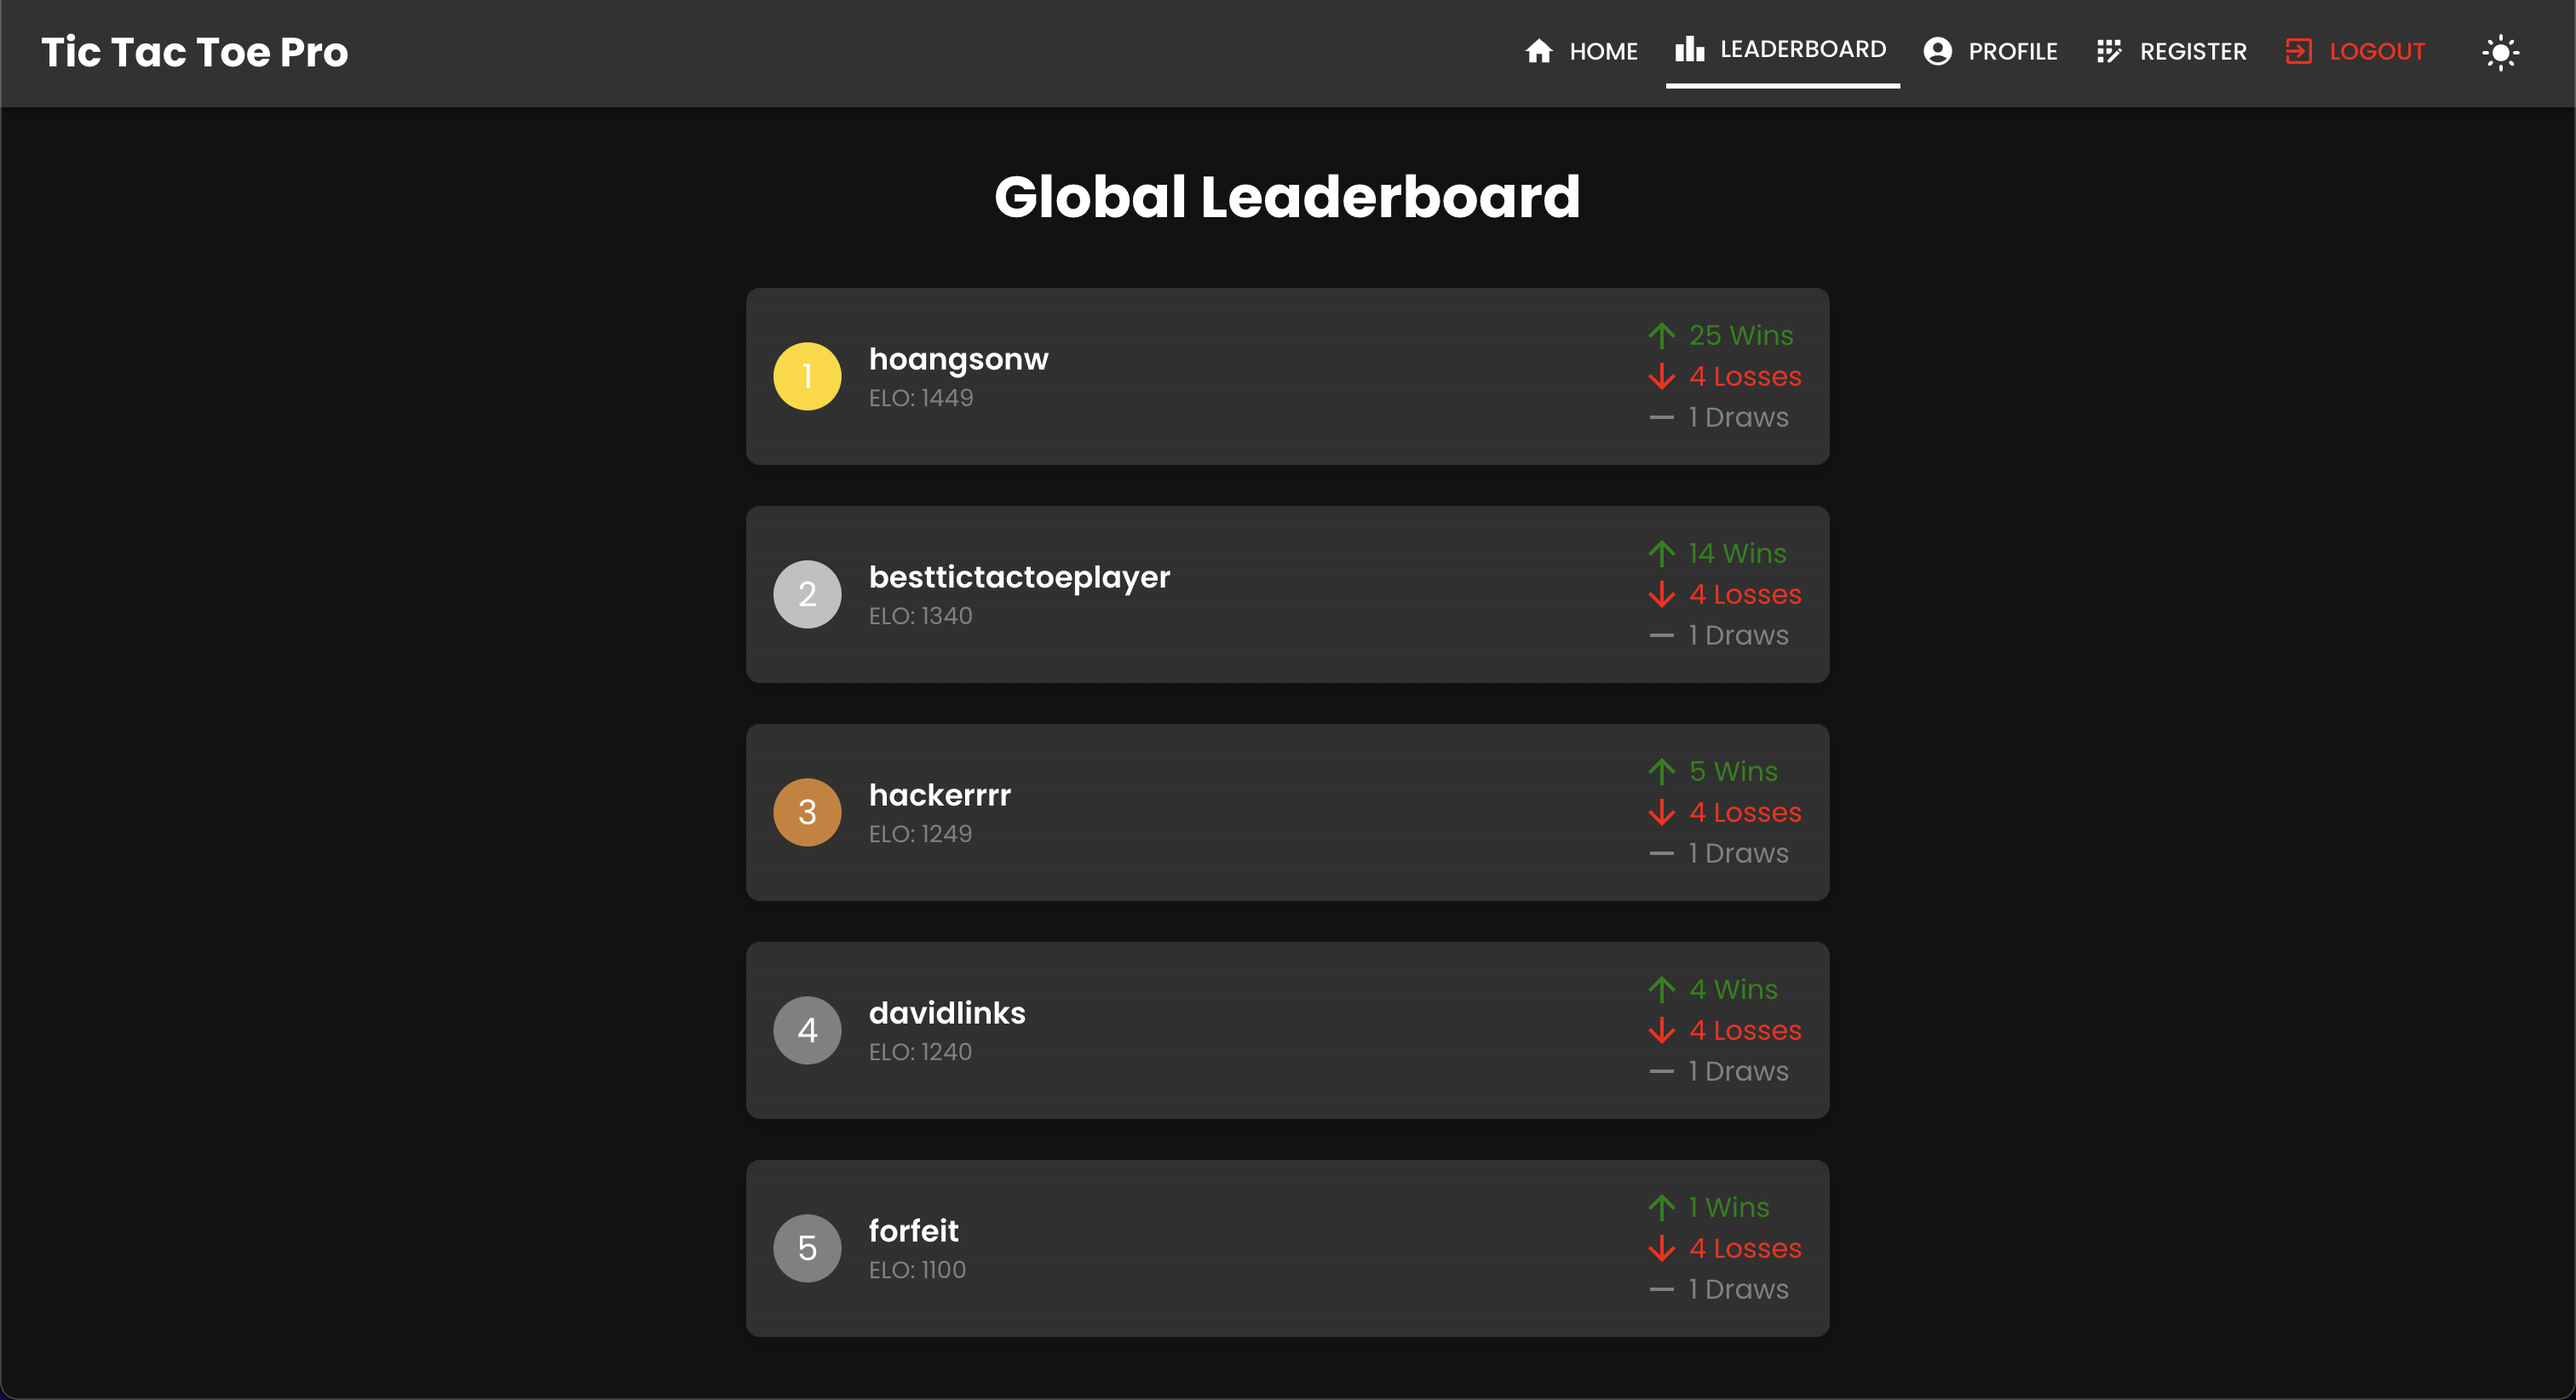
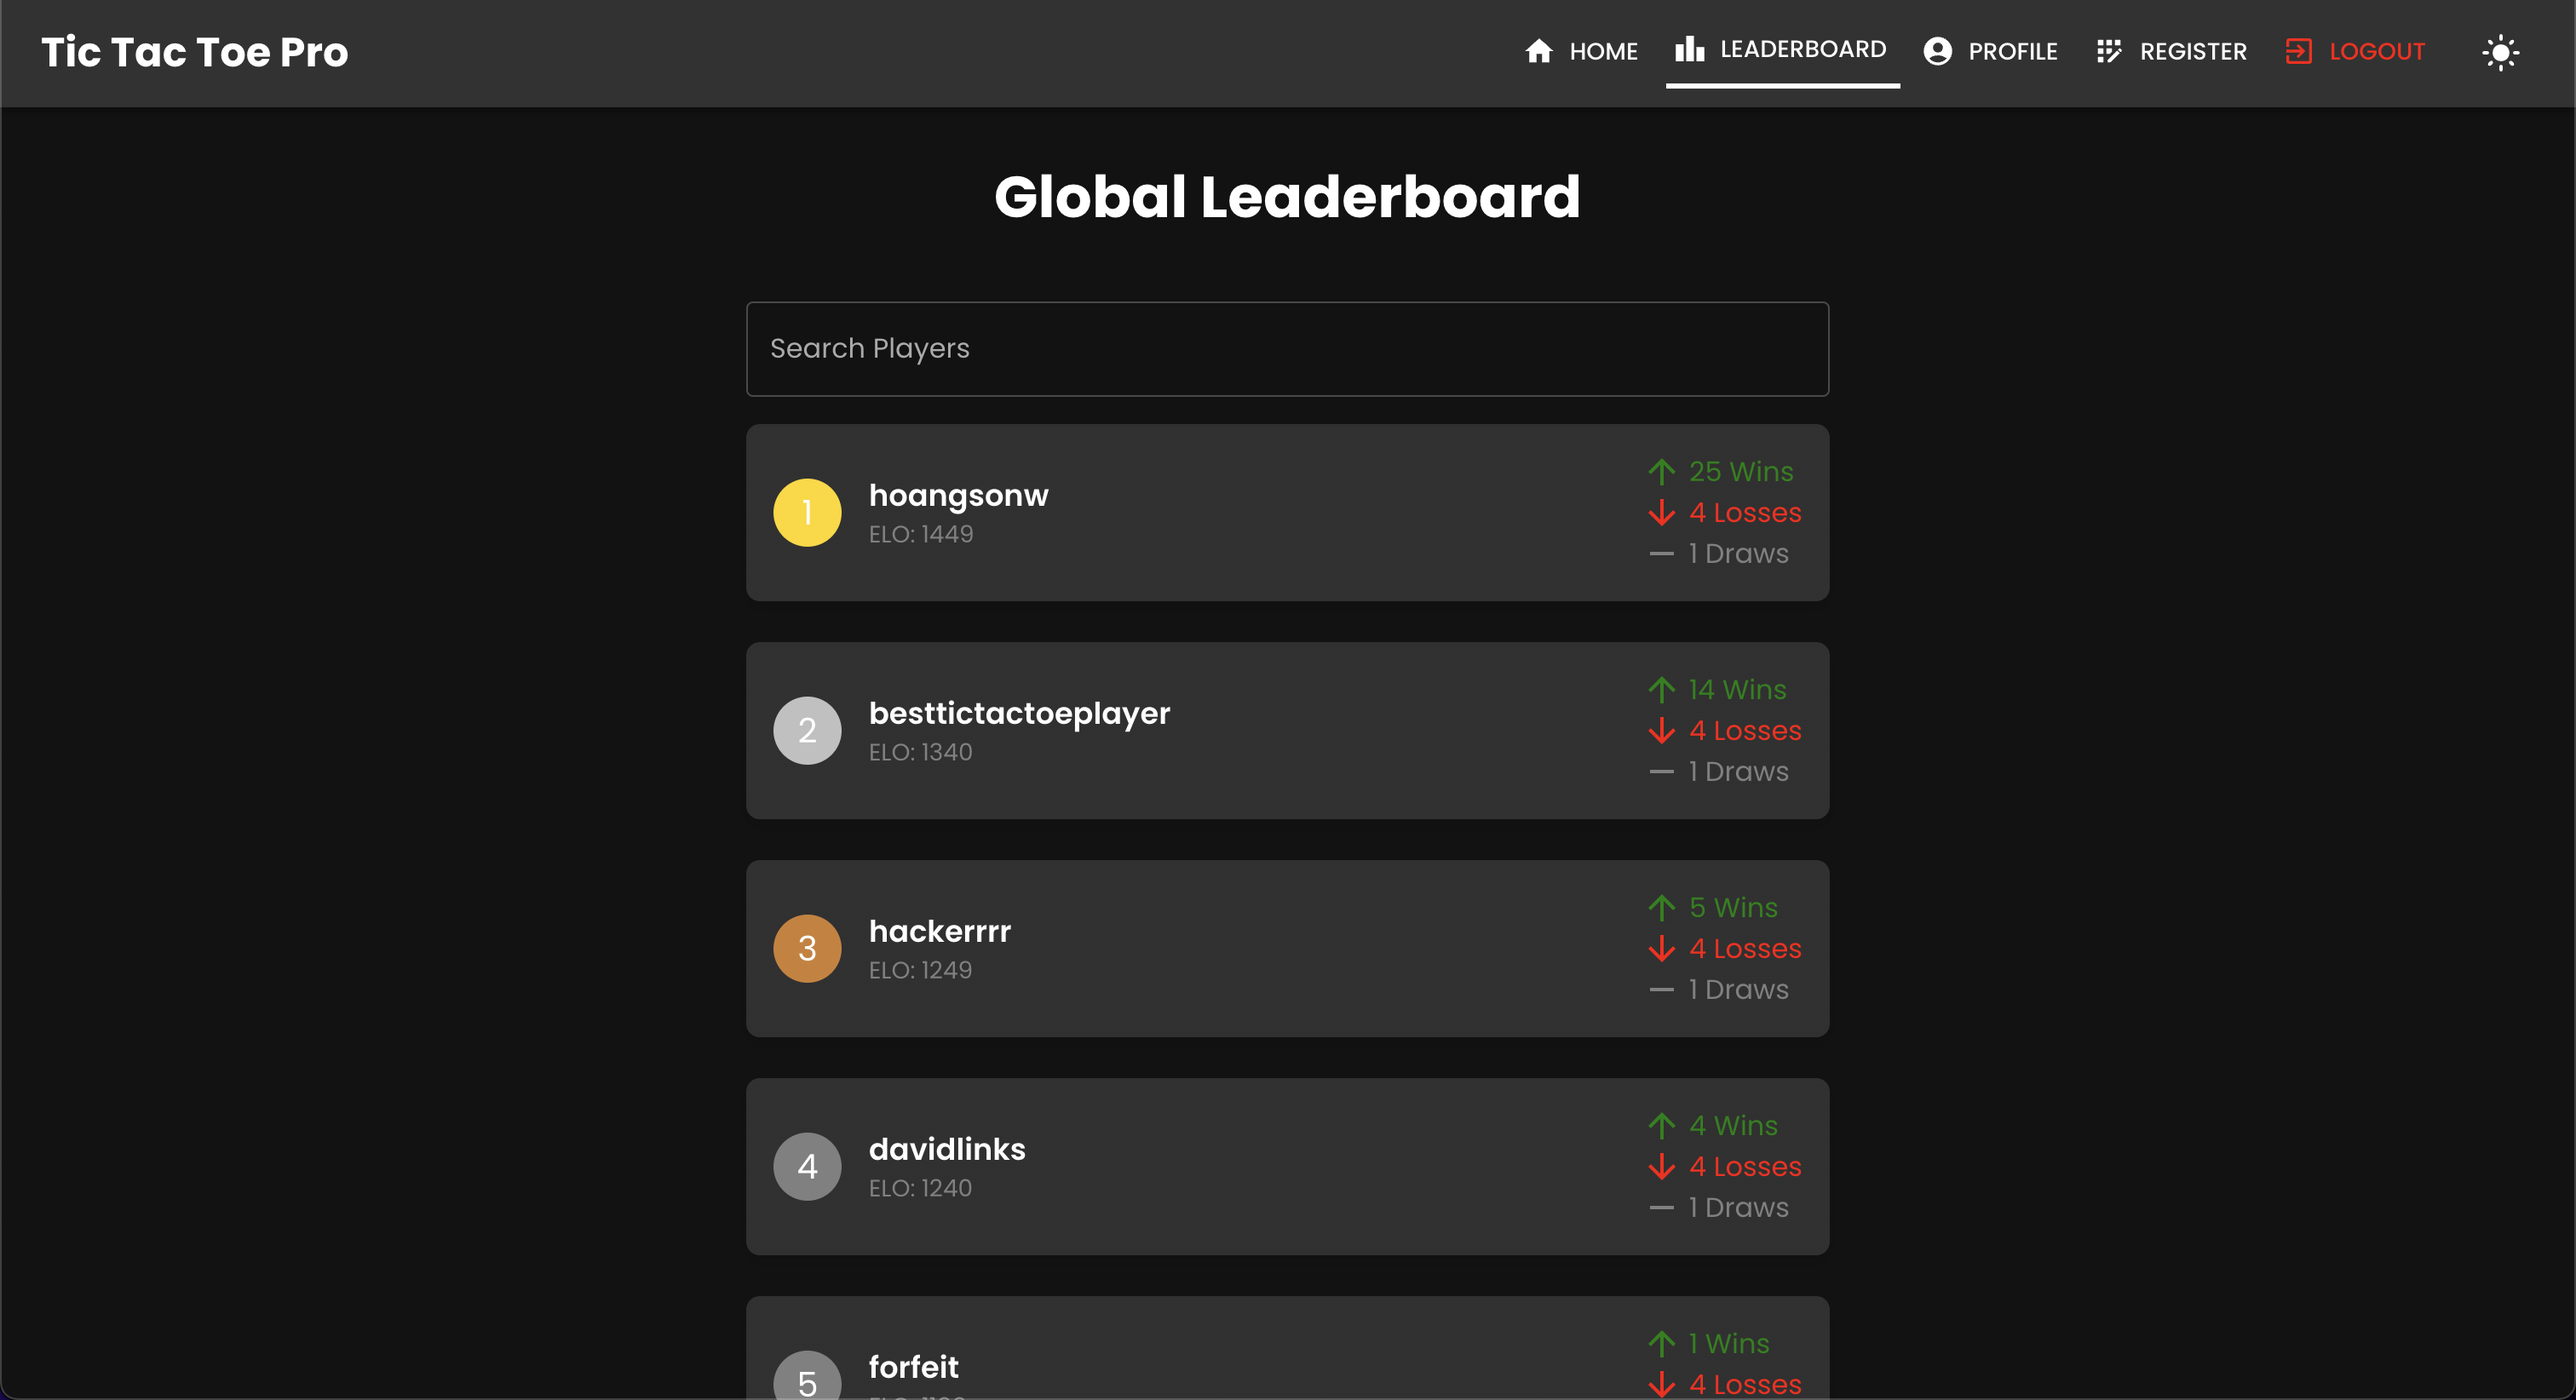
Enhanced App

Changed region(s): [[0.2798, 0.1861, 0.7149, 1.0]]

diff --git a/frontend/src/components/Leaderboard.tsx b/frontend/src/components/Leaderboard.tsx
@@ -1,4 +1,4 @@
-import React, { useState, useEffect } from "react";
+import React, { useState, useEffect, useRef } from "react";
 import { api } from "../utils/api";
 import {
   Typography,
@@ -10,20 +10,60 @@ import {
   Avatar,
   Paper,
   CircularProgress,
+  TextField,
 } from "@mui/material";
 import { ArrowUpward, ArrowDownward, Remove } from "@mui/icons-material";
 
 const Leaderboard: React.FC = () => {
   const [leaderboard, setLeaderboard] = useState([]);
-  const [loading, setLoading] = useState(true); // Loading state
+  const [filteredLeaderboard, setFilteredLeaderboard] = useState([]);
+  const [loading, setLoading] = useState(true); // Initial loading state
+  const [searchLoading, setSearchLoading] = useState(false); // Loading state for search
+  const [search, setSearch] = useState("");
 
+  const debounceTimeout = useRef<number | null>(null);
+
+  // Fetch leaderboard data
   useEffect(() => {
     api
       .get("/leaderboard")
-      .then((response) => setLeaderboard(response.data))
+      .then((response) => {
+        setLeaderboard(response.data);
+        setFilteredLeaderboard(response.data); // Initially, display all data
+      })
       .catch((error) => console.error("Failed to fetch leaderboard:", error))
-      .finally(() => setLoading(false)); // Stop loading when the data is fetched or an error occurs
+      .finally(() => setLoading(false));
   }, []);
+
+  // Custom debounce function
+  const debounce = (callback: Function, delay: number) => {
+    return (...args: any) => {
+      if (debounceTimeout.current) {
+        clearTimeout(debounceTimeout.current);
+      }
+      debounceTimeout.current = window.setTimeout(() => {
+        callback(...args);
+      }, delay);
+    };
+  };
+
+  const handleSearch = (value: string) => {
+    setSearchLoading(true);
+    const filtered = leaderboard.filter((entry: any) =>
+      entry.username.toLowerCase().includes(value.toLowerCase())
+    );
+    setFilteredLeaderboard(filtered);
+    setSearchLoading(false);
+  };
+
+  const debouncedSearch = debounce(handleSearch, 300);
+
+  // Handle search input change
+  const onSearchChange = (event: React.ChangeEvent<HTMLInputElement>) => {
+    const value = event.target.value;
+    setSearch(value);
+    debouncedSearch(value);
+  };
 
   if (loading) {
     return (
@@ -32,7 +72,7 @@ const Leaderboard: React.FC = () => {
           display: "flex",
           justifyContent: "center",
           alignItems: "center",
-          minHeight: "100vh", // Full page height
+          minHeight: "100vh",
         }}
       >
         <CircularProgress />
@@ -57,99 +97,128 @@ const Leaderboard: React.FC = () => {
       >
         Global Leaderboard
       </Typography>
-      <List>
-        {leaderboard.map((entry: any, index: number) => (
-          <Paper
-            elevation={3}
-            key={index}
-            sx={{
-              mb: 3,
-              borderRadius: "8px",
-              boxShadow: "0px 4px 10px rgba(0, 0, 0, 0.1)",
-              transition: "transform 0.3s, box-shadow 0.3s",
-              "&:hover": {
-                transform: "translateY(-5px)",
-                boxShadow: "0px 8px 20px rgba(0, 0, 0, 0.2)",
-              },
-            }}
-          >
-            <ListItem
+      {/* Search Field */}
+      <TextField
+        label="Search Players"
+        fullWidth
+        margin="normal"
+        value={search}
+        onChange={onSearchChange}
+        sx={{
+          "& .MuiInputBase-input": {
+            fontFamily: "Poppins",
+          },
+          "& .MuiInputLabel-root": {
+            fontFamily: "Poppins",
+          },
+        }}
+      />
+      {searchLoading ? (
+        <Box
+          sx={{
+            display: "flex",
+            justifyContent: "center",
+            alignItems: "center",
+            minHeight: "20vh",
+          }}
+        >
+          <CircularProgress />
+        </Box>
+      ) : (
+        <List>
+          {filteredLeaderboard.map((entry: any, index: number) => (
+            <Paper
+              elevation={3}
+              key={index}
               sx={{
-                p: 2,
-                display: "flex",
-                alignItems: "center",
-                justifyContent: "space-between",
+                mb: 3,
+                borderRadius: "8px",
+                boxShadow: "0px 4px 10px rgba(0, 0, 0, 0.1)",
+                transition: "transform 0.3s, box-shadow 0.3s",
+                "&:hover": {
+                  transform: "translateY(-5px)",
+                  boxShadow: "0px 8px 20px rgba(0, 0, 0, 0.2)",
+                },
               }}
             >
-              <Box sx={{ display: "flex", alignItems: "center" }}>
-                <ListItemAvatar>
-                  <Avatar
-                    sx={{
-                      bgcolor:
-                        index === 0
-                          ? "gold"
-                          : index === 1
-                            ? "silver"
-                            : index === 2
-                              ? "#cd7f32"
-                              : "grey",
-                      color: "white",
+              <ListItem
+                sx={{
+                  p: 2,
+                  display: "flex",
+                  alignItems: "center",
+                  justifyContent: "space-between",
+                }}
+              >
+                <Box sx={{ display: "flex", alignItems: "center" }}>
+                  <ListItemAvatar>
+                    <Avatar
+                      sx={{
+                        bgcolor:
+                          index === 0
+                            ? "gold"
+                            : index === 1
+                              ? "silver"
+                              : index === 2
+                                ? "#cd7f32"
+                                : "grey",
+                        color: "white",
+                        fontFamily: "Poppins, sans-serif",
+                      }}
+                    >
+                      {index + 1}
+                    </Avatar>
+                  </ListItemAvatar>
+                  <ListItemText
+                    primary={entry.username}
+                    secondary={`ELO: ${entry.elo}`}
+                    primaryTypographyProps={{
+                      fontFamily: "Poppins",
+                      fontWeight: 600,
+                      fontSize: "1.1rem",
+                    }}
+                    secondaryTypographyProps={{
                       fontFamily: "Poppins, sans-serif",
+                      color: "gray",
+                    }}
+                  />
+                </Box>
+                <Box>
+                  <Typography
+                    sx={{
+                      fontFamily: "Poppins, sans-serif",
+                      color: "green",
+                      display: "flex",
+                      alignItems: "center",
                     }}
                   >
-                    {index + 1}
-                  </Avatar>
-                </ListItemAvatar>
-                <ListItemText
-                  primary={entry.username}
-                  secondary={`ELO: ${entry.elo}`}
-                  primaryTypographyProps={{
-                    fontFamily: "Poppins, sans-serif",
-                    fontWeight: 600,
-                    fontSize: "1.1rem",
-                  }}
-                  secondaryTypographyProps={{
-                    fontFamily: "Poppins, sans-serif",
-                    color: "gray",
-                  }}
-                />
-              </Box>
-              <Box>
-                <Typography
-                  sx={{
-                    fontFamily: "Poppins, sans-serif",
-                    color: "green",
-                    display: "flex",
-                    alignItems: "center",
-                  }}
-                >
-                  <ArrowUpward sx={{ mr: 0.5 }} /> {entry.totalWins} Wins
-                </Typography>
-                <Typography
-                  sx={{
-                    fontFamily: "Poppins, sans-serif",
-                    color: "red",
-                    display: "flex",
-                    alignItems: "center",
-                  }}
-                >
-                  <ArrowDownward sx={{ mr: 0.5 }} /> {entry.totalLosses} Losses
-                </Typography>
-                <Typography
-                  sx={{
-                    fontFamily: "Poppins, sans-serif",
-                    color: "gray",
-                    display: "flex",
-                    alignItems: "center",
-                  }}
-                >
-                  <Remove sx={{ mr: 0.5 }} /> {entry.totalDraws} Draws
-                </Typography>
-              </Box>
-            </ListItem>
-          </Paper>
-        ))}
-      </List>
+                    <ArrowUpward sx={{ mr: 0.5 }} /> {entry.totalWins} Wins
+                  </Typography>
+                  <Typography
+                    sx={{
+                      fontFamily: "Poppins, sans-serif",
+                      color: "red",
+                      display: "flex",
+                      alignItems: "center",
+                    }}
+                  >
+                    <ArrowDownward sx={{ mr: 0.5 }} /> {entry.totalLosses} Losses
+                  </Typography>
+                  <Typography
+                    sx={{
+                      fontFamily: "Poppins, sans-serif",
+                      color: "gray",
+                      display: "flex",
+                      alignItems: "center",
+                    }}
+                  >
+                    <Remove sx={{ mr: 0.5 }} /> {entry.totalDraws} Draws
+                  </Typography>
+                </Box>
+              </ListItem>
+            </Paper>
+          ))}
+        </List>
+      )}
     </Box>
   );
 };
